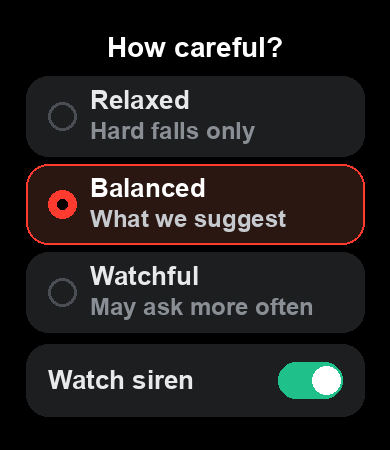
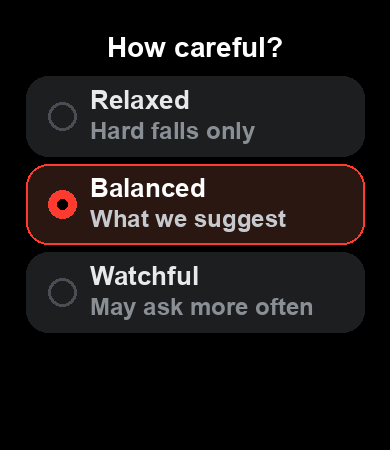
Implement on-watch alert tally for MVP testing
This change introduces an alert history log, displayed on the Home screen, to track and summarize detected falls. This directly supports the MVP testing criteria outlined in `README.md`, which requires a way to count daily false alarms without external services.

Key aspects:
*   **Home screen tally**: Displays "N alerts today · last HH:MM", or "No alerts today" with appropriate localization.
*   **Persistence**: Alerts are stored in `localStorage` across app relaunches.
*   **Debug distinction**: Falls triggered by long-press simulation are not counted in the log.
*   **Siren toggle hidden**: The 'Watch siren' toggle on the Sensitivity settings page is now hidden until alert sound functionality is implemented (`SIREN_READY = false`), preventing a misleading UI for incomplete features.

Changed region(s): [[0.0615, 0.7467, 0.9538, 0.9333]]

diff --git a/page/index.js b/page/index.js
@@ -26,7 +26,8 @@
  * and re-reads the stored sensitivity in its 1 s tick (API 3.0 pages have
  * no onResume to hook).
  */
-import { Accelerometer, Wear, Time, FREQ_MODE_NORMAL } from '@zos/sensor'
+import { Accelerometer, Wear, Time, FREQ_MODE_NORMAL, TIME_HOUR_FORMAT_12 } from '@zos/sensor'
+import { localStorage } from '@zos/storage'
 import {
   setPageBrightTime,
   resetPageBrightTime,
@@ -56,6 +57,7 @@ import {
   REARM_MS,
 } from '../utils/monitor-mode'
 import { DEMO_FALL } from '../utils/demo-trace'
+import { addAlert, summarizeAlerts, formatTime } from '../utils/alert-log'
 
 const AUTO_START = true // start monitoring as soon as the page opens
 const DEBUG = true // long-press the ring to simulate a fall; log sample rate
@@ -69,6 +71,17 @@ const AWAKE_MS = 20000 // screen stays visible this long after an interaction
 
 const WEAR_NOT_WORN = 0
 const HOME_URL = 'page/index'
+const ALERTS_KEY = 'alerts' // utils/alert-log.js list, kept across relaunches
+
+function loadAlerts() {
+  try {
+    const v = localStorage.getItem(ALERTS_KEY, '[]')
+    const list = typeof v === 'string' ? JSON.parse(v) : v
+    return Array.isArray(list) ? list : []
+  } catch (e) {
+    return []
+  }
+}
 
 Page(
   BasePage({
@@ -90,6 +103,9 @@ Page(
       lastLogAt: 0,
       bucket: { startedAt: 0, samples: 0, worn: true },
       buckets: [],
+      alerts: [], // utils/alert-log.js: every real detection, for the "N alerts today" line
+      alertsShown: '', // text currently on that line
+      simulating: false,
       widgets: {},
     },
 
@@ -100,6 +116,7 @@ Page(
       keepAwake(AWAKE_MS)
       this.state.clock = new Time()
       this.state.raise = createRaiseDetector()
+      this.state.alerts = loadAlerts()
       this.buildDetector()
     },
 
@@ -155,6 +172,13 @@ Page(
         ...L.TITLE,
         text: getText('home.paused'),
         color: COLOR.text,
+        align_h: align.CENTER_H,
+        align_v: align.CENTER_V,
+      })
+      w.alerts = createWidget(widget.TEXT, {
+        ...L.ALERTS,
+        text: '',
+        color: COLOR.muted,
         align_h: align.CENTER_H,
         align_v: align.CENTER_V,
       })
@@ -321,13 +345,34 @@ Page(
       return `${c.getFormatHour()}:${m < 10 ? '0' : ''}${m}`
     },
 
+    /** "No alerts today" / "2 alerts today · last 14:32" — the MVP test's false-alarm tally. */
+    alertsLine() {
+      const { today, last } = summarizeAlerts(this.state.alerts, Date.now())
+      if (!today) return { text: getText('home.alerts_none'), color: COLOR.muted }
+      const time = formatTime(last.t, this.state.clock.getHourFormat() === TIME_HOUR_FORMAT_12)
+      const key = today === 1 ? 'home.alerts_one' : 'home.alerts_many'
+      return { text: getText(key).replace('{n}', today).replace('{time}', time), color: COLOR.redSoft }
+    },
+
+    /** Count a real detection (not the long-press demo) and keep it across relaunches. */
+    logAlert(evt) {
+      const s = this.state
+      s.alerts = addAlert(s.alerts, evt, Date.now())
+      try {
+        localStorage.setItem(ALERTS_KEY, JSON.stringify(s.alerts))
+      } catch (e) {
+        console.log('[alerts] save failed', e)
+      }
+      console.log('[alerts]', this.alertsLine().text)
+    },
+
     render() {
       const s = this.state
       const w = s.widgets
       if (!w.title) return
 
       const visible = !isDimmed()
-      for (const k of ['clock', 'track', 'ring', 'disc', 'shield', 'title']) w[k].setProperty(prop.VISIBLE, visible)
+      for (const k of ['clock', 'track', 'ring', 'disc', 'shield', 'title', 'alerts']) w[k].setProperty(prop.VISIBLE, visible)
       if (!visible) return
 
       let title = 'home.paused'
@@ -338,6 +383,12 @@ Page(
       }
       w.clock.setProperty(prop.TEXT, this.clockText())
       w.title.setProperty(prop.TEXT, getText(title))
+      const line = this.alertsLine()
+      if (line.text !== s.alertsShown) {
+        // setProperty(MORE) redraws the widget, so only when the line changes (a new alert, or midnight)
+        s.alertsShown = line.text
+        w.alerts.setProperty(prop.MORE, { ...L.ALERTS, ...line })
+      }
       w.ring.setProperty(prop.MORE, {
         ...L.RING,
         color: ringColor,
@@ -347,6 +398,7 @@ Page(
 
     onFallDetected(evt) {
       console.log('[fall]', JSON.stringify(evt))
+      if (!this.state.simulating) this.logAlert(evt)
       disarmRelaunch() // the alert flow comes back here by itself
       this.wake()
       this.stopMonitoring()
@@ -354,11 +406,13 @@ Page(
       replace({ url: 'page/alert', params: JSON.stringify(evt) })
     },
 
-    /** Debug: replay the synthetic forward fall through the detector, bypassing the sensor. */
+    /** Debug: replay the synthetic forward fall through the detector, bypassing the sensor. Not counted as an alert. */
     simulateFall() {
       this.wake()
       if (!this.state.running) this.startMonitoring()
+      this.state.simulating = true
       const events = replay(this.state.detector, DEMO_FALL, Date.now())
+      this.state.simulating = false
       console.log('[simulate] events:', events.length)
     },
 

diff --git a/page/settings.js b/page/settings.js
@@ -1,8 +1,9 @@
 /**
  * Sensitivity — "How careful?" (design 2A). Reached by swiping up on Home.
- * Three levels named by behaviour, plus the siren toggle. Persists via
- * utils/prefs; Home (still alive underneath, since this page is pushed) polls
- * the stored value in its tick and rebuilds its detector when it changes.
+ * Three levels named by behaviour, plus the siren toggle (hidden until sound
+ * exists, see SIREN_READY). Persists via utils/prefs; Home (still alive
+ * underneath, since this page is pushed) polls the stored value in its tick
+ * and rebuilds its detector when it changes.
  */
 import { createWidget, widget, prop, align, event } from '@zos/ui'
 import { getText } from '@zos/i18n'
@@ -13,6 +14,7 @@ import { getPref, setPref, SENSITIVITY } from '../utils/prefs'
 import { keepAwake } from '../utils/monitor-mode'
 
 const AWAKE_MS = 20000 // Home is alive underneath and dims when nobody interacts — keep it lit while here
+const SIREN_READY = false // no alert sound exists yet (README §2b), so the switch would promise nothing
 
 const LEVELS = [
   { id: SENSITIVITY.RELAXED, label: 'settings.relaxed', sub: 'settings.relaxed_sub' },
@@ -60,15 +62,17 @@ Page(
         return { id: level.id, rect, border, radioOffOuter, radioOffInner, radioOn, radioDot, label, sub, g }
       })
 
-      const t = L.TOGGLE
-      const flip = () => this.setSiren(!this.state.siren)
-      const on = (w) => (w.addEventListener(event.CLICK_UP, flip), w)
-      on(createWidget(widget.FILL_RECT, { ...t.rect, color: COLOR.card }))
-      on(createWidget(widget.TEXT, { ...t.label, text: getText('settings.siren'), color: COLOR.textSoft, align_h: align.LEFT, align_v: align.CENTER_V }))
-      this.state.toggle = {
-        track: on(createWidget(widget.FILL_RECT, { ...t.track, color: COLOR.green })),
-        knobOn: on(createWidget(widget.CIRCLE, { ...t.knobOn, color: COLOR.white })),
-        knobOff: on(createWidget(widget.CIRCLE, { ...t.knobOff, color: COLOR.white })),
+      if (SIREN_READY) {
+        const t = L.TOGGLE
+        const flip = () => this.setSiren(!this.state.siren)
+        const on = (w) => (w.addEventListener(event.CLICK_UP, flip), w)
+        on(createWidget(widget.FILL_RECT, { ...t.rect, color: COLOR.card }))
+        on(createWidget(widget.TEXT, { ...t.label, text: getText('settings.siren'), color: COLOR.textSoft, align_h: align.LEFT, align_v: align.CENTER_V }))
+        this.state.toggle = {
+          track: on(createWidget(widget.FILL_RECT, { ...t.track, color: COLOR.green })),
+          knobOn: on(createWidget(widget.CIRCLE, { ...t.knobOn, color: COLOR.white })),
+          knobOff: on(createWidget(widget.CIRCLE, { ...t.knobOff, color: COLOR.white })),
+        }
       }
 
       this.render()
@@ -103,6 +107,7 @@ Page(
         r.sub.setProperty(prop.MORE, { ...r.g.sub, color: sel ? COLOR.caption : COLOR.dim })
       }
       const t = s.toggle
+      if (!t.track) return
       t.track.setProperty(prop.MORE, { ...L.TOGGLE.track, color: s.siren ? COLOR.green : COLOR.radioOff })
       t.knobOn.setProperty(prop.VISIBLE, s.siren)
       t.knobOff.setProperty(prop.VISIBLE, !s.siren)

diff --git a/test/alert-log.test.js b/test/alert-log.test.js
@@ -1,0 +1,36 @@
+import { test } from 'node:test'
+import assert from 'node:assert/strict'
+import { addAlert, summarizeAlerts, formatTime, MAX_ALERTS } from '../utils/alert-log.js'
+
+// Local times, so "today" means the same thing as on the watch.
+const at = (day, h, m = 0) => new Date(2026, 8, day, h, m).getTime()
+
+test('addAlert keeps the detector numbers, rounded, newest last', () => {
+  let list = addAlert(undefined, { peakG: 3.14159, freefallMs: 287.6, stillStd: 0.01 }, at(24, 9, 5))
+  list = addAlert(list, {}, at(24, 10))
+  assert.deepEqual(list, [
+    { t: at(24, 9, 5), peakG: 3.14, freefallMs: 288 },
+    { t: at(24, 10), peakG: 0, freefallMs: 0 },
+  ])
+})
+
+test('addAlert keeps only the newest MAX_ALERTS', () => {
+  let list = []
+  for (let i = 0; i < MAX_ALERTS + 5; i++) list = addAlert(list, { peakG: 3 }, at(24, 0, i))
+  assert.equal(list.length, MAX_ALERTS)
+  assert.equal(list[0].t, at(24, 0, 5))
+})
+
+test('summarizeAlerts counts alerts since local midnight and returns the newest', () => {
+  const list = [{ t: at(23, 23, 50) }, { t: at(24, 0, 10) }, { t: at(24, 14, 32) }]
+  assert.deepEqual(summarizeAlerts(list, at(24, 18)), { today: 2, last: { t: at(24, 14, 32) } })
+  assert.equal(summarizeAlerts(list, at(25, 8)).today, 0) // a new day starts at zero
+  assert.deepEqual(summarizeAlerts(null, at(24, 18)), { today: 0, last: null })
+})
+
+test('formatTime follows the watch 12/24-hour setting', () => {
+  assert.equal(formatTime(at(24, 14, 5), false), '14:05')
+  assert.equal(formatTime(at(24, 14, 5), true), '2:05')
+  assert.equal(formatTime(at(24, 0, 30), true), '12:30')
+  assert.equal(formatTime(at(24, 9, 0), false), '9:00')
+})

diff --git a/utils/alert-log.js b/utils/alert-log.js
@@ -1,0 +1,37 @@
+/**
+ * Alert history for the MVP test (README "MVP scope"). Every detected fall is
+ * kept as { t, peakG, freefallMs }, so Home can show how many alerts fired
+ * today and when the last one was — the numbers the proof of concept is
+ * judged on. Pure JavaScript; page/index.js persists the list in
+ * localStorage.
+ */
+
+export const MAX_ALERTS = 50
+
+const round2 = (v) => Math.round((v || 0) * 100) / 100
+
+/** Append one detector event (newest last), keeping only the newest MAX_ALERTS. */
+export function addAlert(list, evt, t) {
+  const entry = { t: Math.round(t), peakG: round2(evt && evt.peakG), freefallMs: Math.round((evt && evt.freefallMs) || 0) }
+  return [...(Array.isArray(list) ? list : []), entry].slice(-MAX_ALERTS)
+}
+
+/** { today, last }: alerts since local midnight, and the most recent alert (or null). */
+export function summarizeAlerts(list, now) {
+  const items = Array.isArray(list) ? list : []
+  const d = new Date(now)
+  const midnight = new Date(d.getFullYear(), d.getMonth(), d.getDate()).getTime()
+  return {
+    today: items.filter((a) => a.t >= midnight && a.t <= now).length,
+    last: items.length ? items[items.length - 1] : null,
+  }
+}
+
+/** "14:32", or "2:32" on a watch set to 12-hour time (Home's clock shows no AM/PM either). */
+export function formatTime(t, twelveHour) {
+  const d = new Date(t)
+  let h = d.getHours()
+  if (twelveHour) h = h % 12 || 12
+  const m = d.getMinutes()
+  return `${h}:${m < 10 ? '0' : ''}${m}`
+}

diff --git a/page/index.r.layout.js b/page/index.r.layout.js
@@ -12,3 +12,5 @@ export const DISC = { x: px(160), y: px(134), w: px(160), h: px(160), radius: px
 export const SHIELD = { x: px(206), y: px(180), w: px(68), h: px(68), src: 'shield.png' }
 
 export const TITLE = { x: px(0), y: px(332), w: px(480), h: px(44), text_size: px(34) }
+// MVP test tally: "2 alerts today · last 14:32" (utils/alert-log.js).
+export const ALERTS = { x: px(60), y: px(380), w: px(360), h: px(32), text_size: px(24) }

diff --git a/page/index.s.layout.js b/page/index.s.layout.js
@@ -11,3 +11,5 @@ export const DISC = { x: px(123), y: px(124), w: px(144), h: px(144), radius: px
 export const SHIELD = { x: px(164), y: px(165), w: px(62), h: px(62), src: 'shield.png' }
 
 export const TITLE = { x: px(0), y: px(304), w: px(390), h: px(42), text_size: px(32) }
+// MVP test tally: "2 alerts today · last 14:32" (utils/alert-log.js).
+export const ALERTS = { x: px(0), y: px(350), w: px(390), h: px(32), text_size: px(24) }

diff --git a/tools/render-mocks.py b/tools/render-mocks.py
@@ -66,7 +66,7 @@ for shape in ['r', 's']:
     l = L[f'index.{shape}']; im, d = canvas(shape)
     arc(d, l['RING'], C['track'], 270); arc(d, l['RING'], C['green'], l['RING']['start_angle'] + 360 * 0.88)
     rrect(d, l['DISC'], C['bg']); icon(d, l['SHIELD']); txt(d, l['TITLE'], "You're covered", C['text'])
-    txt(d, l['CLOCK'], '14:32', C['muted'])
+    txt(d, l['CLOCK'], '14:32', C['muted']); txt(d, l['ALERTS'], '1 alert today · last 9:05', C['redSoft'])
     save(im, 'home', shape)
 
     l = L[f'alert.{shape}']; im, d = canvas(shape)
@@ -87,7 +87,7 @@ for shape in ['r', 's']:
         if sel: circ(d, row['radio'], C['red']); circ(d, row['radioDot'], C['bg'])
         else: circ(d, row['radio'], C['radioOff']); circ(d, row['radioInner'], C['card'])
         txt(d, row['label'], lab, C['text'] if sel else C['textSoft'], 'l'); txt(d, row['sub'], sub, C['caption'] if sel else C['dim'], 'l')
-    t = l['TOGGLE']; rrect(d, t['rect'], C['card']); txt(d, t['label'], 'Watch siren', C['textSoft'], 'l'); rrect(d, t['track'], C['green']); circ(d, t['knobOn'], C['white'])
+    # the Watch siren toggle (L['TOGGLE']) stays hidden until SIREN_READY in page/settings.js
     save(im, 'settings', shape)
 
 names = ['home', 'alert', 'settings']

diff --git a/README.md b/README.md
@@ -15,12 +15,33 @@ wearer taps OK.
 This version exists to prove the detector on a real wrist. A detected fall
 opens a "Fall detected" screen that vibrates until you tap OK, or for 30 s
 at most, and then monitoring resumes. Nothing leaves the watch: there is no
-phone-side service and no phone settings page.
+phone-side service and no phone settings page. Home counts the alerts ("2
+alerts today · last 14:32", `utils/alert-log.js`), which is how the test
+below tallies false alarms; the long-press demo doesn't count.
+
+### How to prove it
+
+Install with `zeus preview` (§5 Step 9) and check, in order. The pass marks
+are starting points; change them if you have other targets.
+
+| Check | How | Passes if |
+|---|---|---|
+| Stays alive | Wear it for a day; leave the app once with the side button | Ring stays green; the app returns within 90 s |
+| Sample rate | `[rate]` line in the Device App log (§5 9d) | At least 25 Hz, the lowest rate the tests cover |
+| Catches falls | 10 falls each onto a mattress: forward, backward, sideways | At least 8 of 10 per direction |
+| Ignores daily life | 10 each: sit down hard, clap, slam a hand on a table, flop onto a bed, stairs; then 3 days of normal wear | At most 1 alert per day on Home's tally |
+| Battery | A full day of monitoring | Lasts a waking day (about 16 h) |
+
+Missed falls → switch to *Watchful*; too many false alarms → *Relaxed*.
+The `[fall-candidate]` log lines show why each near-miss was rejected, which
+is what tuning `PRESETS` in `utils/fall-detector.js` starts from.
+
+### Deferred
 
 | Deferred | Where it is |
 |---|---|
 | SOS: 30 s countdown, "Get help now", phone relay to a webhook, emergency contact, phone settings page | Removed. The last version without the recorder is commit `b47079a`: `page/alert.js`, `page/result.*`, `app-side/`, `setting/`, `tools/webhook-dev-server.js`, `check.png` |
-| Phase 0–1 recorder, staged recordings, uploads, `npm run eval` | Branch `phase1-recording` (commit `fdecfa0`, reverted on `main`) |
+| Phase 0–1 recorder, staged recordings, uploads, `npm run eval` | Branch `phase1-recording` (commit `fdecfa0`; taken off `main` in `5a1c005`) |
 | Detector v2 | The plan doc; v1 (`utils/fall-detector.js`) makes every decision |
 
 Steps 5–7 and §6 below describe the MVP. Earlier SOS details live in the
@@ -147,6 +168,7 @@ fall-detection/
 │   ├── prefs.js           # localStorage-backed settings + sensitivity → presets
 │   ├── monitor-mode.js    # dimming, shared "awake" deadline, dead-man's alarm (§10.5)
 │   ├── raise-detector.js  # raise-to-wake from the accel stream (pure, tested)
+│   ├── alert-log.js       # alert tally for the MVP test (pure, tested)
 │   ├── probe-store.js     # record shared by the probe service and its page
 │   ├── theme.js           # palette from the design
 │   └── demo-trace.js      # generated synthetic fall for the debug replay
@@ -155,6 +177,7 @@ fall-detection/
 └── test/
     ├── fall-detector.test.js
     ├── raise-detector.test.js
+    ├── alert-log.test.js
     └── fixtures/*.json    # recorded accel traces (real falls / ADLs)
 ```
 
@@ -170,9 +193,9 @@ screens return with SOS.
 
 | Screen | Page | What's on it |
 |---|---|---|
-| Home — "You're covered" | `page/index` | Simplified from the design: a single coverage ring with the shield, centred, the state title beneath it (covered / paused / not on wrist) and a clock line above, since in monitor mode this screen *is* the wearer's watch face. The three info rows were dropped on 2026-09-16. |
+| Home — "You're covered" | `page/index` | Simplified from the design: a single coverage ring with the shield, centred, the state title beneath it (covered / paused / not on wrist) and a clock line above, since in monitor mode this screen *is* the wearer's watch face. The three info rows were dropped on 2026-09-16. For the MVP test a last line counts alerts: "No alerts today" / "2 alerts today · last 14:32". |
 | Fall detected | `page/alert` | Red glow, "Fall detected", the time, what the detector saw ("peak 3.4 g · 290 ms free fall"), "Vibration stops in 28s", white **OK** pill. Vibrates until OK, 30 s at most. |
-| Sensitivity — "How careful?" | `page/settings` | Relaxed / Balanced / Watchful radio rows (→ `PRESETS.low/normal/high`), *Watch siren* toggle. |
+| Sensitivity — "How careful?" | `page/settings` | Relaxed / Balanced / Watchful radio rows (→ `PRESETS.low/normal/high`). The *Watch siren* toggle is hidden until alert sound exists. |
 
 Interactions the design leaves implicit:
 
@@ -209,8 +232,9 @@ Palette lives in `utils/theme.js`; per-shape geometry in `page/<page>.{r,s}.layo
 straight from the layout files (no simulator needed) — check it after moving
 anything.
 
-Not wired yet: the **siren** toggle persists but no audio plays (needs an
-audio asset + `@zos/media`).
+Not wired yet: alert **sound**. The *Watch siren* toggle is hidden
+(`SIREN_READY = false` in `page/settings.js`) until an audio asset and
+`@zos/media` (or the `Buzzer` sensor) play something.
 
 ---
 
